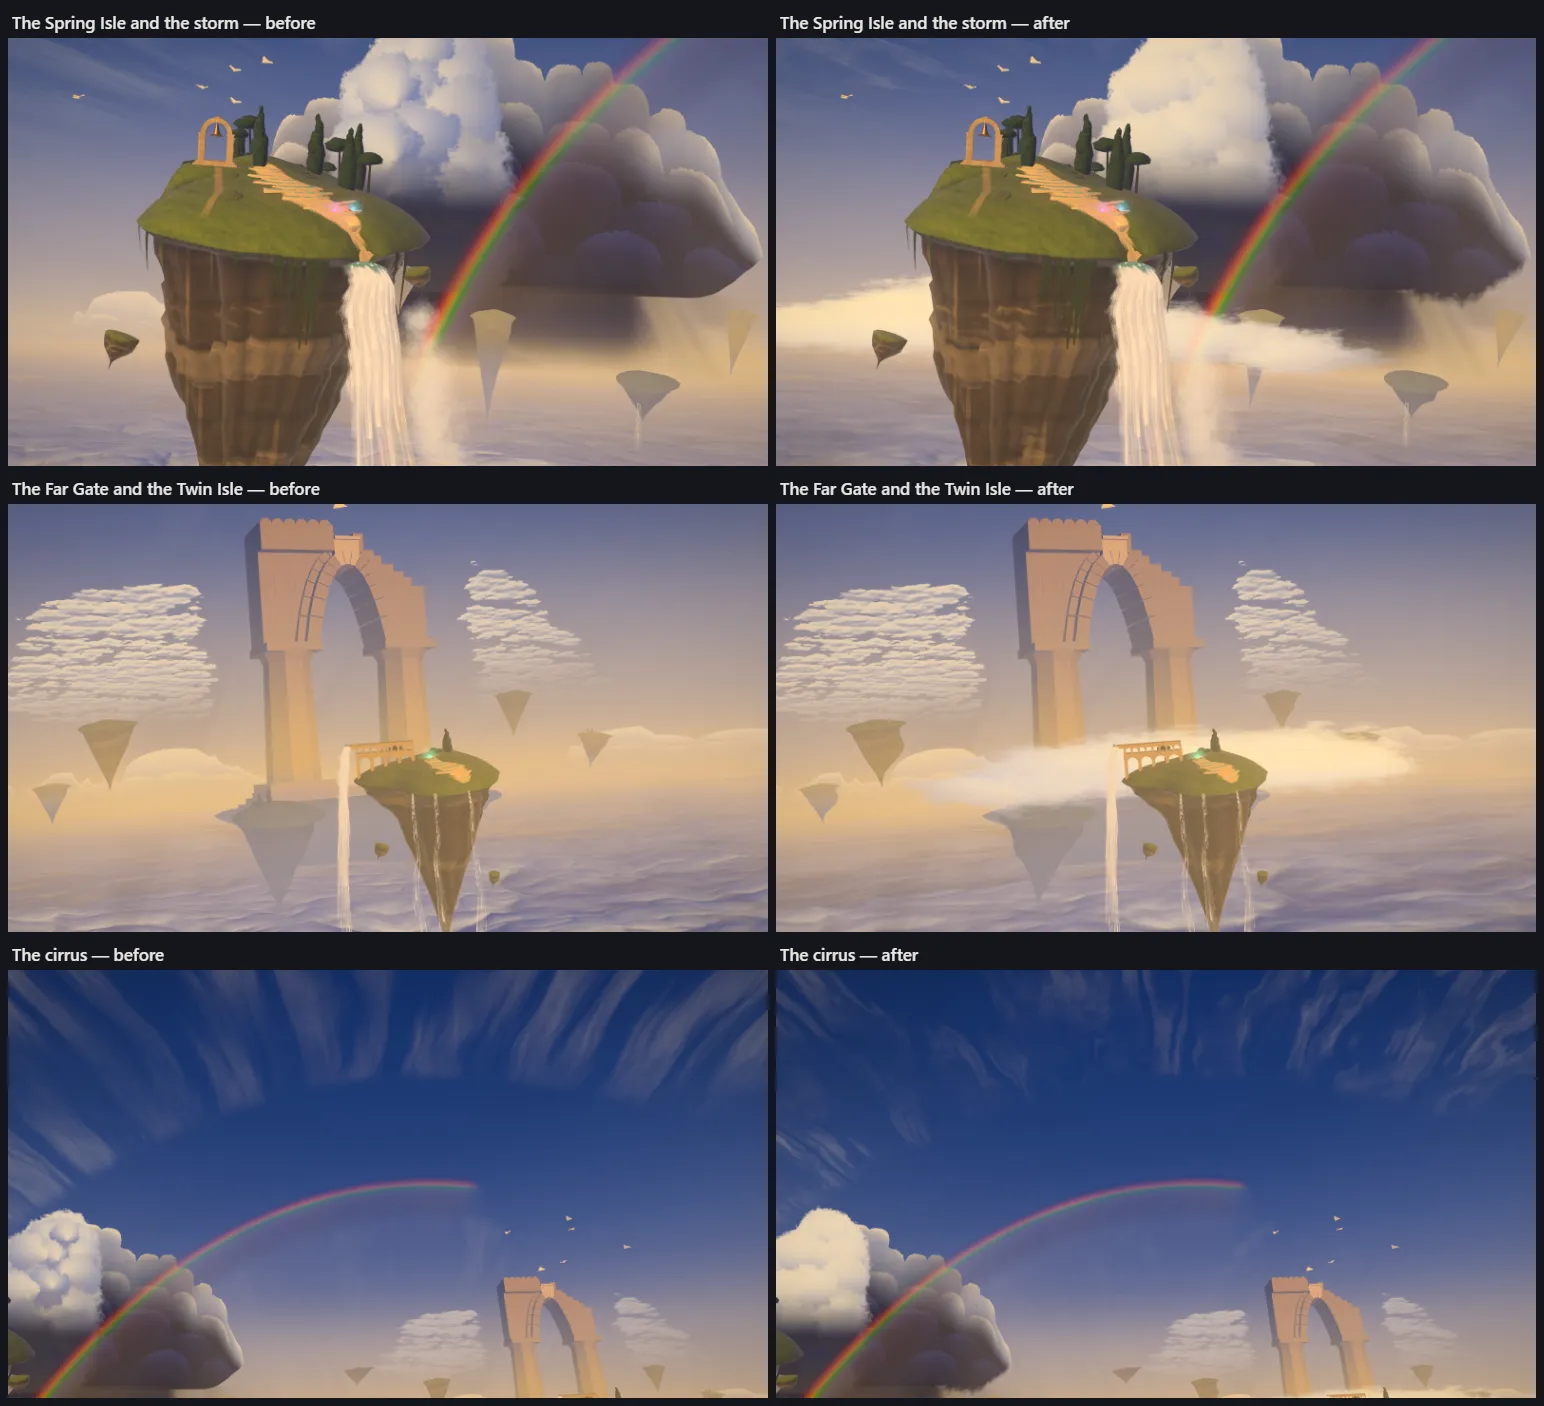
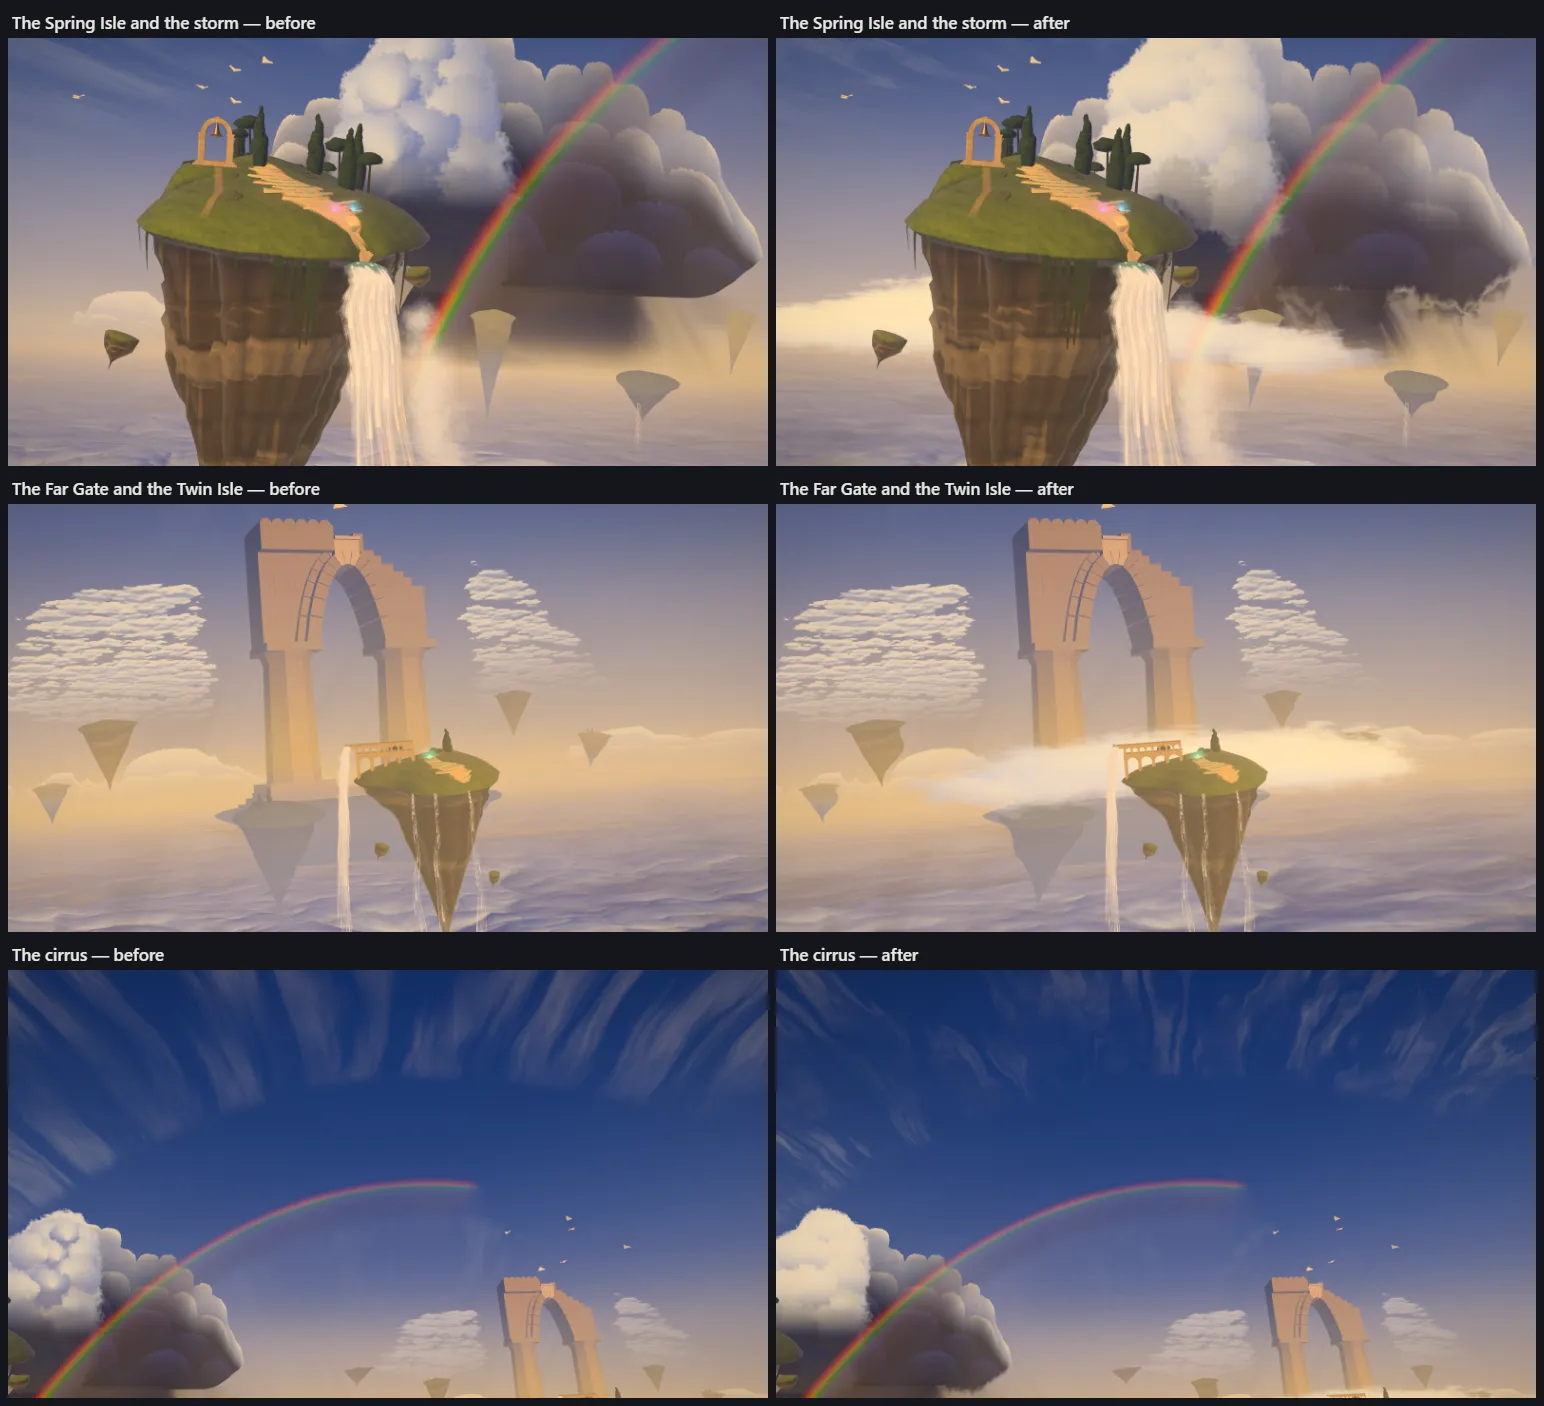
Rainbow Terraces: the storm is one cloud with a broken bottom
The storm read as a white cloud glued to a black one on one ruled line. The
light now falls into the dark from top to bottom across the whole storm: the
wall's upper half takes the crown's light, and on the tower the dark climbs
billow by billow instead of in a level band. The base sags in broad pouches,
frays into the rain and hangs broad, soft rags of scud; the tower's flat cut
sags and tears with it; the rain under the heart falls in streaked curtains
with paler gaps instead of one dark block; the wall's heads are softer.

Changed region(s): [[0.715, 0.0612, 0.9948, 0.2141], [0.9016, 0.1835, 0.9637, 0.2447], [0.8394, 0.2141, 0.8705, 0.2447]]

diff --git a/src/themes/rainbow-terraces/rainbow-terraces-tsl.js b/src/themes/rainbow-terraces/rainbow-terraces-tsl.js
@@ -673,12 +673,12 @@ export function stormWall(dir, bearing, thetaA, calm, U, tex, hazeIn = null) {
         const d = b.x.sub(el).sub(fray.mul(rRow).mul(0.16));
         // A billow's edge is vapour, not a cut-out: soft over a share of its own size (never under
         // a pixel), so the rows stack as rounded masses instead of a pile of discs.
-        const edge = max(pa, rRow.mul(0.05));
+        const edge = max(pa, rRow.mul(0.08));
         const cover = smoothstep(edge.negate(), edge, d);
         // Deeper under its own top a billow lies in the shade of the ones over it; the crown's
         // turrets stand in a little more air (they are further back).
         const occl = float(1.0).sub(smoothstep(0.0, rRow.mul(2.6), d).mul(0.4));
-        const row = mix(float(0.6), float(2.3), b.y.pow(1.6).mul(quiet)).mul(occl).add(select(i.equal(0), float(0.1), float(0.0)));
+        const row = mix(float(0.7), float(2.0), b.y.pow(1.4).mul(quiet)).mul(occl).add(select(i.equal(0), float(0.1), float(0.0)));
         tone.assign(mix(tone, row, cover));
         bodyA.assign(max(bodyA, cover));
     });
@@ -693,19 +693,32 @@ export function stormWall(dir, bearing, thetaA, calm, U, tex, hazeIn = null) {
     // lifts between them, its edge frayed into the falling rain (a few pixels of soft tear, wider
     // under the heart), so the body and its rain are one storm, not a slab with a curtain hung on.
     const sag = texture(tex.noise, vec2(bearing.mul(4.3).add(0.61), 0.27)).g.sub(0.5);
+    const swing = texture(tex.noise, vec2(bearing.mul(1.7).add(0.17), 0.61)).r.sub(0.5);
     const tear = texture(tex.noise, vec2(bearing.mul(11.0).add(0.3), el.mul(11.0).sub(U.mistClock.mul(0.0006)))).a.sub(0.5);
-    const baseU = base.add(sh.w.mul(0.2).mul(endU.mul(endU))).add(sag.mul(sh.w).mul(0.07))
-        .add(tear.mul(sh.w).mul(0.028)).sub(core.mul(sh.w).mul(0.025));
+    const pouch = sag.mul(0.12).add(swing.mul(0.1)).add(tear.mul(0.03)).sub(core.mul(0.04));
+    const baseU = base.add(sh.w.mul(0.2).mul(endU.mul(endU))).add(pouch.mul(sh.w)).toVar();
     const soft = pa.add(sh.w.mul(mix(0.018, 0.04, core)));
-    bodyA.mulAssign(smoothstep(baseU.sub(soft), baseU.add(soft), el).mul(smoothstep(reach.mul(1.12), reach, abs(u.sub(0.05))))
-        .mul(smoothstep(0.004, 0.02, sh.w)));
+    const inWall = smoothstep(reach.mul(1.12), reach, abs(u.sub(0.05))).mul(smoothstep(0.004, 0.02, sh.w)).toVar();
+    // Under the base hangs scud: ragged dark rags of the storm's own cloud, thickest just under
+    // it and under the heart, thinning as they hang lower, drifting on the storm's own wind.
+    const under = baseU.sub(el);
+    // (Broad lobes a few degrees across with soft edges: fine noise here only reads as confetti.)
+    const scudN = texture(tex.noise, vec2(bearing.mul(5.5).add(0.71), el.mul(7.0).add(U.mistClock.mul(0.0003)))).g;
+    const scudReach = sh.w.mul(mix(0.12, 0.22, core));
+    const hang = float(1.0).sub(smoothstep(0.0, scudReach, under));
+    const scud = smoothstep(0.5, 0.74, scudN.mul(0.7).add(tear.mul(0.25)).add(hang.mul(0.4)).sub(0.05))
+        .mul(smoothstep(0.0, soft, under)).mul(hang.mul(hang));
+    bodyA.assign(max(bodyA.mul(smoothstep(baseU.sub(soft), baseU.add(soft), el)), scud.mul(0.88)).mul(inWall));
     const bodyCol = slate.mul(tone).toVar();
     // Its upper body faces the sun behind us: the top third of the wall catches the light (a lit
     // crown grading down into the slate body over its own billows), so it reads as a storm cloud
     // standing in the sun, never a dark mesa. Quieter by the card and the bow, as the brows are.
-    const upper = smoothstep(0.5, 0.95, el.sub(base).div(max(height, 1e-3))).mul(quiet).mul(float(1.0).sub(flank.mul(0.5)));
-    const crownLit = cloudLight(U, tone.mul(0.42).clamp(0.0, 1.0), float(0.0), float(0.6)).mul(0.82);
-    bodyCol.assign(mix(bodyCol, crownLit, upper.mul(0.75)));
+    // (Lit down to the middle of its height: the light falls into the dark from top to bottom
+    // across the whole storm, as it does over the tower in front, never a white cloud on the left
+    // glued to a dark one on the right.)
+    const upper = smoothstep(0.34, 0.92, el.sub(base).div(max(height, 1e-3))).mul(quiet).mul(float(1.0).sub(flank.mul(0.5)));
+    const crownLit = cloudLight(U, tone.mul(0.42).clamp(0.0, 1.0), float(0.0), float(0.6)).mul(0.86);
+    bodyCol.assign(mix(bodyCol, crownLit, upper.mul(0.85)));
 
     // ── The rain: broad shafts under the base, slanting with the wind ──
     const fall = base.sub(el).toVar();
@@ -725,13 +738,15 @@ export function stormWall(dir, bearing, thetaA, calm, U, tex, hazeIn = null) {
     // Under the heart a dense dark curtain, full down to the last degree over the horizon, then
     // thinning on into the mist (the bow's leg keeps its dark ground under the base).
     const heart = smoothstep(0.3, 0.75, core).toVar();
-    dense.assign(max(dense, heart.mul(mix(float(0.3), float(1.05), smoothstep(-0.035, 0.014, el)))));
-    // Soft change down each shaft (never a comb), calmer in the curtain.
+    // (Not one block: curtains side by side, a paler gap of thinner rain between them.)
+    const curtains = smoothstep(0.3, 0.7, texture(tex.noise, vec2(lean.mul(2.6).add(0.41), 0.83)).r);
+    dense.assign(max(dense, heart.mul(mix(float(0.3), float(1.05), smoothstep(-0.035, 0.014, el))).mul(curtains.mul(0.5).add(0.5))));
+    // Soft change down each shaft (never a comb), streaked where the rain falls in sheets.
     const vary = texture(tex.noise, vec2(lean.mul(1.9), fall.mul(4.0).sub(U.mistClock.mul(0.004)))).b;
     const streak = texture(tex.noise, vec2(lean.mul(9.0), fall.mul(1.8).sub(U.mistClock.mul(0.015)))).a;
-    const grain = vary.mul(0.45).add(0.8).mul(streak.mul(0.14).add(0.93));
+    const grain = vary.mul(0.45).add(0.8).mul(streak.mul(0.3).add(0.85));
     // (It hangs from just above the base, so the body's edge never shows sky through a seam.)
-    const rainA = min(dense.mul(mix(grain, float(1.0), heart.mul(0.6))), 0.985)
+    const rainA = min(dense.mul(mix(grain, float(1.0), heart.mul(0.3))), 0.985)
         .mul(smoothstep(-0.007, -0.002, fall)).mul(smoothstep(-0.03, -0.012, el))
         .mul(smoothstep(0.1, 0.75, U.showerAmt))
         .mul(smoothstep(reach, reach.mul(0.7), abs(lean)))

diff --git a/src/themes/rainbow-terraces/rainbow-terraces-cumulus.js b/src/themes/rainbow-terraces/rainbow-terraces-cumulus.js
@@ -20,7 +20,7 @@
  */
 import * as THREE from 'three/webgpu';
 import {
-    Fn, atan, attribute, cameraPosition, cameraProjectionMatrix, cameraViewMatrix, dot, exp, float, length, max, mix,
+    Fn, atan, attribute, cameraPosition, cameraProjectionMatrix, cameraViewMatrix, dot, exp, float, fract, length, max, mix,
     normalize, positionGeometry, pow, sin, smoothstep, sqrt, texture, varying, vec2, vec3, vec4,
 } from 'three/tsl';
 import { DEG, mulberry32 } from './rainbow-terraces-core.js';
@@ -339,12 +339,15 @@ export function createCumulus({ tier, U, tex }) {
         // The tower's lower body is the storm itself: dark slate in its own rain and shade, the
         // billows still showing; only the crown stands in the sun.
         // (By the point's own height, so the dark climbs the tower smoothly across the puffs.)
-        const rise = vWorld.y.sub(cloud.x).div(cloud.y);
+        // (Measured mostly by the billow's own height, a little by the point's, so the dark climbs
+        // the tower billow by billow along a cauliflower edge, never across it in a level band.)
+        const jitter = fract(tone.y.mul(0.618)).sub(0.5).mul(0.14);
+        const rise = mix(vWorld.y.sub(cloud.x).div(cloud.y), tone.x.add(jitter), 0.65);
         // (And across its form: the flank toward the storm's heart turns slate over its last
         // billows, so the lit crown grades into the dark wall, never a white cut-out against it.)
         const shower = smoothstep(0.15, 0.55, U.showerAmt);
         const storm = max(
-            float(1.0).sub(smoothstep(0.26, 0.6, rise)),
+            float(1.0).sub(smoothstep(0.2, 0.5, rise)),
             smoothstep(0.25, 0.8, tone.z).mul(float(1.0).sub(smoothstep(0.7, 0.95, rise))).mul(0.8),
         ).mul(tower).mul(shower);
         // Each billow of the storm's body shows by its lighter brow over a darker underside.
@@ -377,7 +380,11 @@ export function createCumulus({ tier, U, tex }) {
         const veil = smoothstep(2.5, 3.5, cloud.z);
         const edge = length(local).add(n.sub(0.5).mul(mix(mix(float(0.45), float(0.7), storm), float(1.05), veil)));
         const soft = mix(mix(float(0.74), float(0.45), storm), float(0.12), veil);
-        const flat = smoothstep(cloud.x.sub(cloud.y.mul(0.012)), cloud.x.add(cloud.y.mul(0.03)), vWorld.y);
+        // The tower's base is the storm's: level, but sagging and torn along its run (the puff's
+        // own noise and a broad one across the cloud), and its foot thins out into the rain.
+        const sagN = texture(tex.noise, vec2(vWorld.x.mul(1 / 3200), vWorld.z.mul(1 / 3200)).add(0.29)).r;
+        const baseLine = cloud.x.sub(cloud.y.mul(sagN.sub(0.5).mul(0.07).add(n.sub(0.5).mul(0.04))));
+        const flat = smoothstep(baseLine.sub(cloud.y.mul(0.02)), baseLine.add(cloud.y.mul(0.06)), vWorld.y);
         const body = float(1.0).sub(smoothstep(soft, 0.92, edge));
         const drift = texture(tex.noise, vWorld.xz.mul(1 / 1400).add(vec2(0.37, U.mistClock.mul(0.00002)))).r;
         const gaps = smoothstep(0.36, 0.7, drift.add(n.sub(0.5).mul(0.3)));

diff --git a/docs/RAINBOW_TERRACES_VISUAL_OVERHAUL_2026-10.md b/docs/RAINBOW_TERRACES_VISUAL_OVERHAUL_2026-10.md
@@ -382,9 +382,16 @@ printed honeycomb and hoops of pale bed; the Mother Fall's ropes ended in square
   pointing away from it, so the front billows were darker than the back ones (dimples, a pile of
   balls). It is built from the cloud's own axes now, and each billow's own sphere weighs more (its top
   lit, its underside in shade): the tower reads as lit cumulus, its crown burning pink at Rose.
-- **The storm's base** sags in broad pouches and frays into its rain (a soft tear a few pixels wide,
-  wider under the heart) instead of a ruled line with rounded corners; each billow's edge is vapour,
-  soft over 5 % of its own size.
+- **The storm is one cloud with a broken bottom** (the owner: "it feels flat at the bottom and the
+  composition can be better"). It had read as a white cloud on the left glued to a black one on the
+  right, on one ruled line. Now the light falls into the dark from top to bottom across the whole
+  storm: the wall's upper half takes the crown's light (from 34 % of its height, not 50 %), and on the
+  tower the dark climbs billow by billow (measured by each billow's own height, jittered, never by a
+  level band) over a cauliflower edge. The base sags in broad pouches at two scales and frays into
+  the rain; broad, soft rags of scud hang under it, thickest under the heart (a fine read there was
+  confetti); the tower's own flat cut sags and tears with it. The rain under the heart falls in
+  curtains with paler gaps between them, streaked down their fall, instead of one dark block; the
+  wall's heads have quieter brows and softer edges (8 % of their size).
 - **The cirrus** bends along its run (a slow bend fans the streaks apart and together, and the fibres
   follow it), and each streak has a dense head that frays into a tail: curls and hooks, never a comb.
 - **The far isles** hang lobed roots on their silhouette's bearings (`FAR_SHAPES`: a lobe table and a
@@ -402,13 +409,14 @@ The real game on WebGPU at High through a run of hard drops: console clean (thre
 the theme). The theme's 17 test files (364 tests; new: the sea's creases, the veils), typecheck, the TS,
 lint and fitness ratchets at baseline, dependency boundaries, the lifecycle audit and the IP gate. No
 frame timing: the GPU was shared with the owner's parallel work, so an A/B would only have been noise.
-Cost by construction: the dome's fragment grew from 57.9 to 59.3 KB of WGSL at High (6.2 KB under its
-gate), the stone gained three texture reads and the cumulus one; the draws are the same 15 (the veils
+Cost by construction: the dome's fragment grew from 57.9 to 60.5 KB of WGSL at High (5.0 KB under its
+gate), the stone gained three texture reads and the cumulus two; the draws are the same 15 (the veils
 are in the cumulus draw); scene triangles Minimal 50.4 k, Low 63.2 k, Medium 80.4 k, High 107.4 k,
 Ultra 137.3 k, Extreme 172.2 k (the far isles' finer roots), all within their budgets.
 
-**Not done:** the storm wall's billows still step down its steepest heaves in columns (mostly hidden
-behind the tower and the card), and the Spring Isle's root keeps its silhouette.
+**Not done:** the storm wall's heads are still drawn as rows of discs (softer now, mostly behind the
+tower and the card), the tower keeps its place behind the Spring Isle's grove in play, and the Spring
+Isle's root keeps its silhouette.
 
 ## Tiers
 
@@ -416,7 +424,7 @@ Every tier keeps the whole picture and every event. Scene triangles as built (th
 census, instances at capacity, after the atmosphere pass): Minimal 50.4 k, Low 63.2 k, Medium
 80.4 k, High 107.4 k, Ultra 137.3 k, Extreme 172.2 k, all inside their budgets (60 / 80 / 100 /
 140 / 180 / 230 k); the same 15 draws on every tier. The sky dome's fragment stage is under its
-64 KB gate (59.3 KB of WGSL at High after the atmosphere pass); the shaders test enforces it.
+64 KB gate (60.5 KB of WGSL at High after the atmosphere pass); the shaders test enforces it.
 
 ## Verification
 
